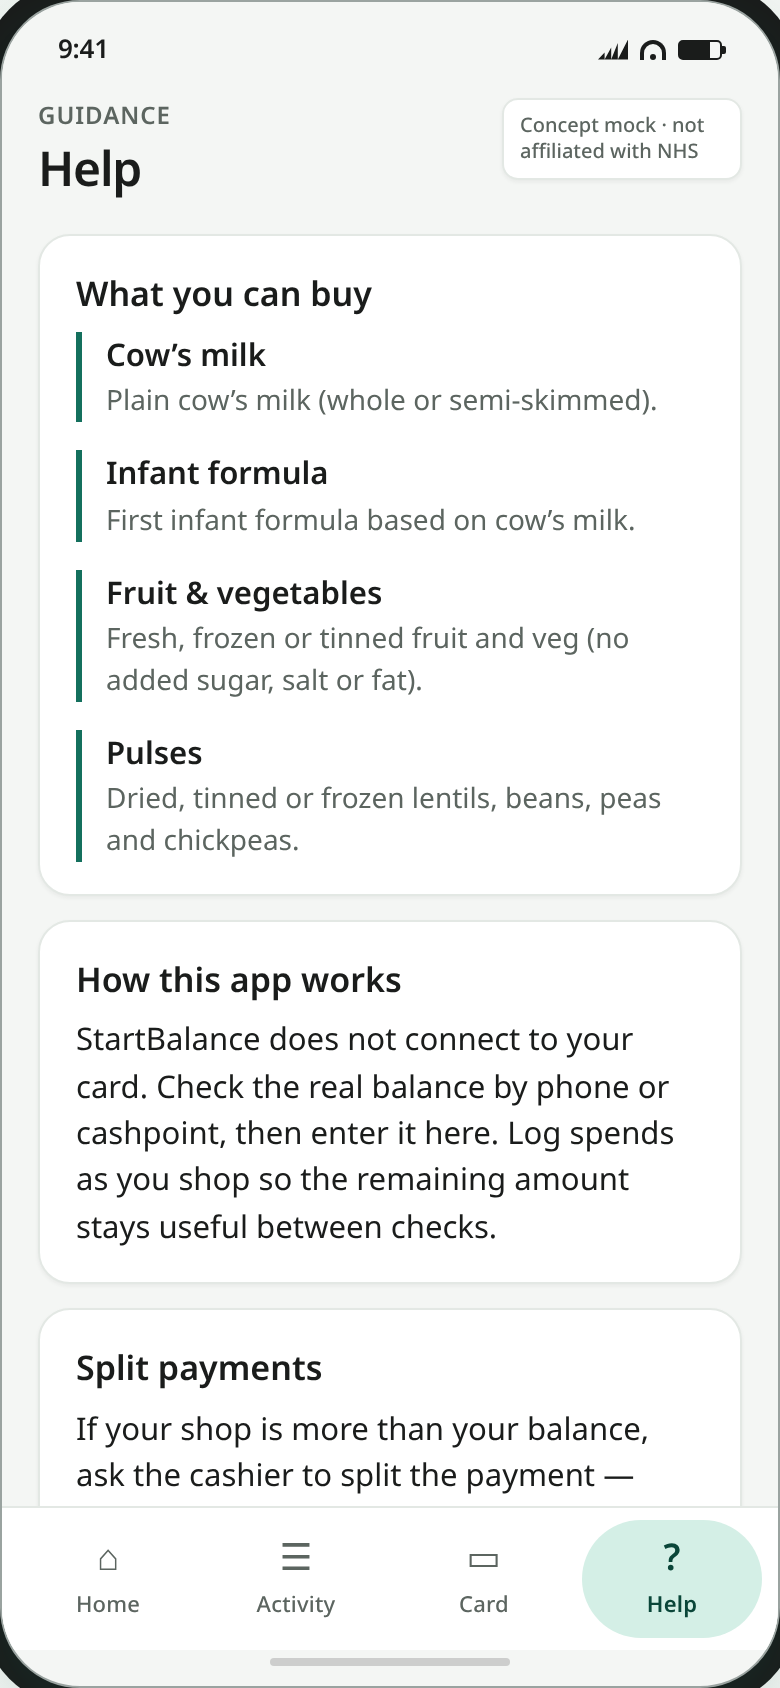
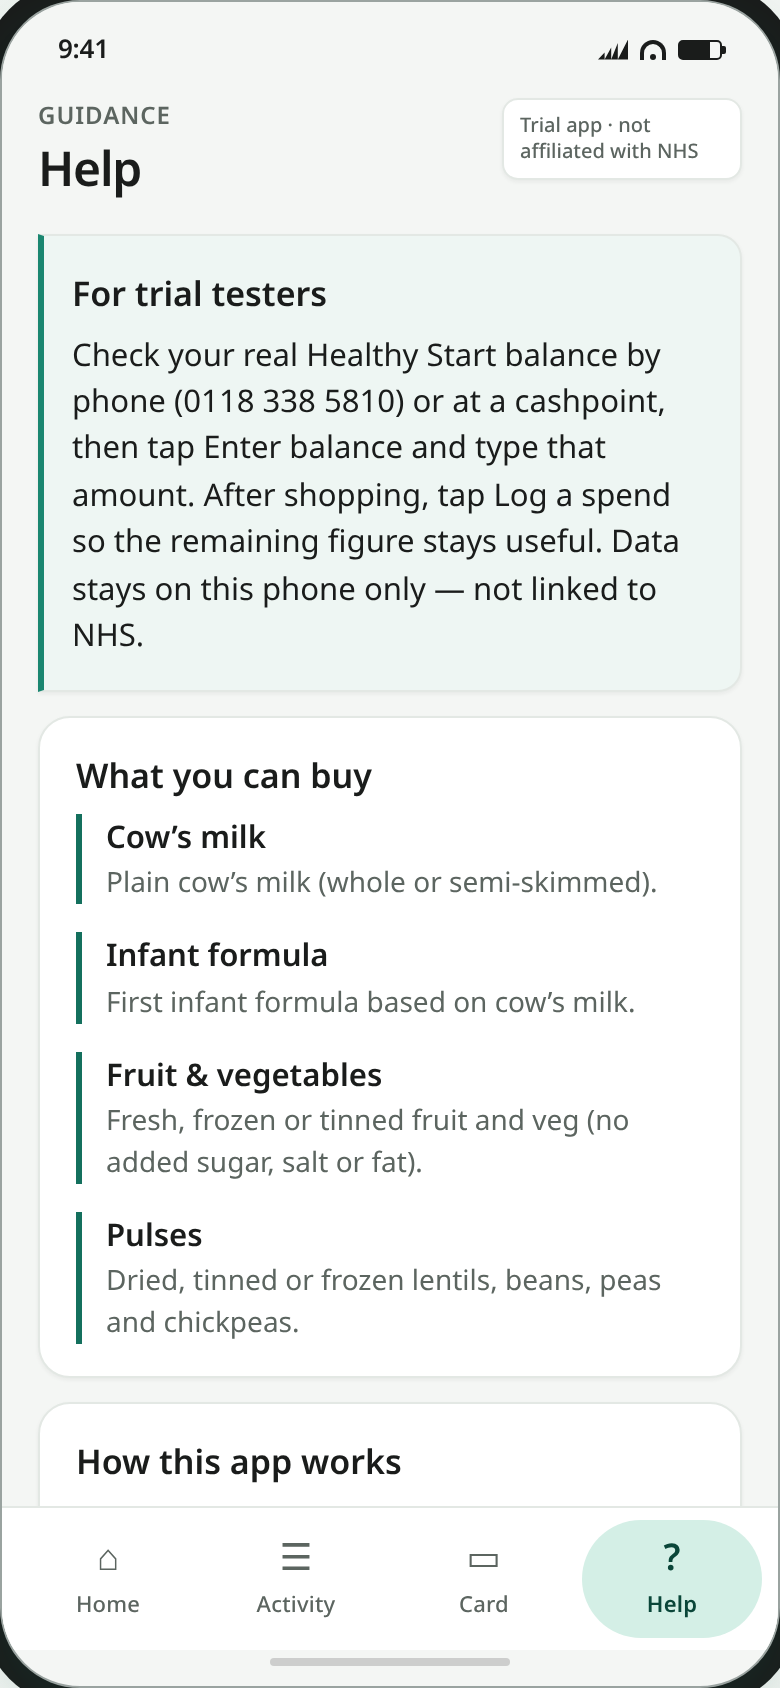
Refresh trial screenshots and PWA meta
- New shots after Trial app framing
- mobile-web-app-capable meta; screenshots use /startbalance/ base

diff --git a/index.html b/index.html
@@ -10,6 +10,7 @@
       content="width=device-width, initial-scale=1.0, viewport-fit=cover"
     />
     <meta name="theme-color" content="#0f5c4c" />
+    <meta name="mobile-web-app-capable" content="yes" />
     <meta name="apple-mobile-web-app-capable" content="yes" />
     <meta name="apple-mobile-web-app-status-bar-style" content="default" />
     <meta name="apple-mobile-web-app-title" content="StartBalance" />
